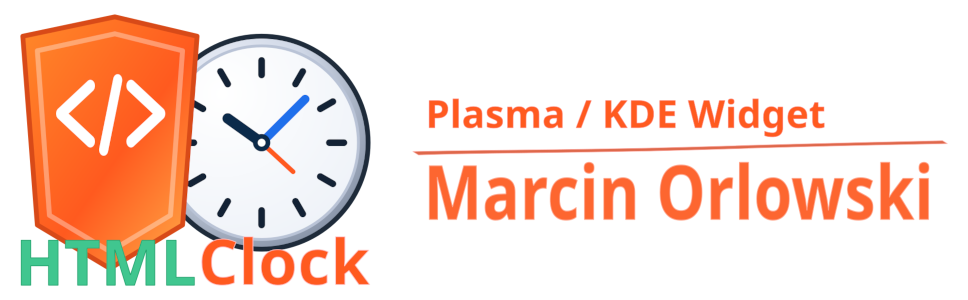
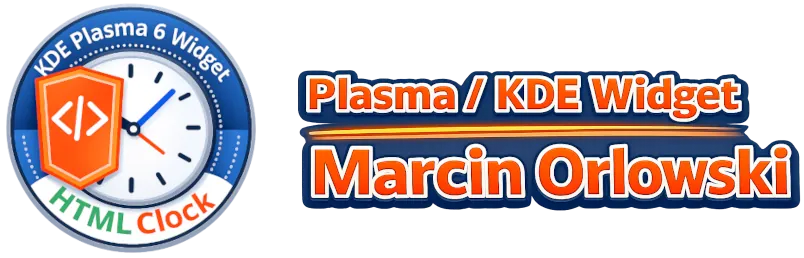
Updated project artwork

diff --git a/CHANGES.md b/CHANGES.md
@@ -3,11 +3,10 @@
 
 # Changelog
 
----
-
 ## dev (TBD)
 
 - Fixed "Date&Time grid big" built-in layout rendering incorrectly.
+- Updated project logo and artwork.
 
 ## v2.1.0 (2026-01-15)
 
